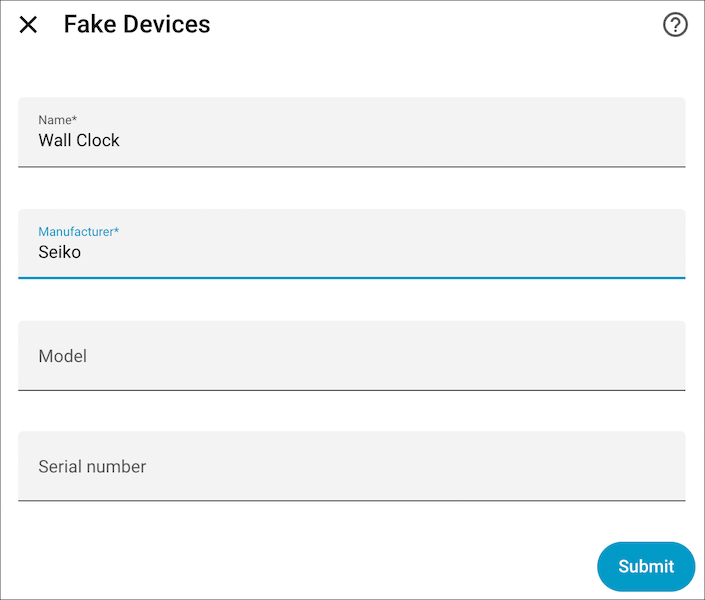
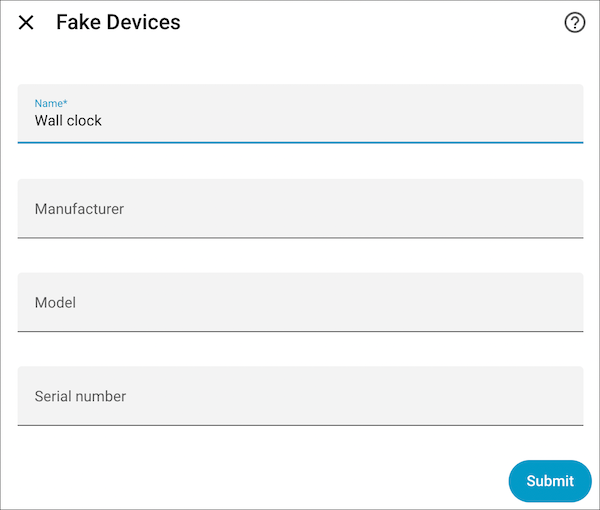
Make manufacturer optional

diff --git a/custom_components/fake_devices/config_flow.py b/custom_components/fake_devices/config_flow.py
@@ -18,7 +18,7 @@ from .const import (
 USER_SCHEMA = vol.Schema(
     {
         vol.Required(CONF_NAME): str,
-        vol.Required(CONF_MANUFACTURER): str,
+        vol.Optional(CONF_MANUFACTURER): str,
         vol.Optional(CONF_MODEL): str,
         vol.Optional(CONF_SERIAL_NUMBER): str,
     }
@@ -59,7 +59,7 @@ class FakeDevicesFlowHandler(ConfigFlow, domain=DOMAIN):
                 title=user_input[CONF_NAME],
                 data={
                     CONF_NAME: user_input[CONF_NAME],
-                    CONF_MANUFACTURER: user_input[CONF_MANUFACTURER],
+                    CONF_MANUFACTURER: user_input.get(CONF_MANUFACTURER),
                     CONF_MODEL: user_input.get(CONF_MODEL),
                     CONF_SERIAL_NUMBER: user_input.get(CONF_SERIAL_NUMBER),
                 },

diff --git a/custom_components/fake_devices/__init__.py b/custom_components/fake_devices/__init__.py
@@ -60,7 +60,7 @@ async def async_setup_entry(
         config_entry_id=entry.entry_id,
         identifiers={(DOMAIN, entry.entry_id)},
         name=entry.data[CONF_NAME],
-        manufacturer=entry.data[CONF_MANUFACTURER],
+        manufacturer=entry.data.get(CONF_MANUFACTURER),
         model=entry.data.get(CONF_MODEL),
         serial_number=entry.data.get(CONF_SERIAL_NUMBER),
     )
